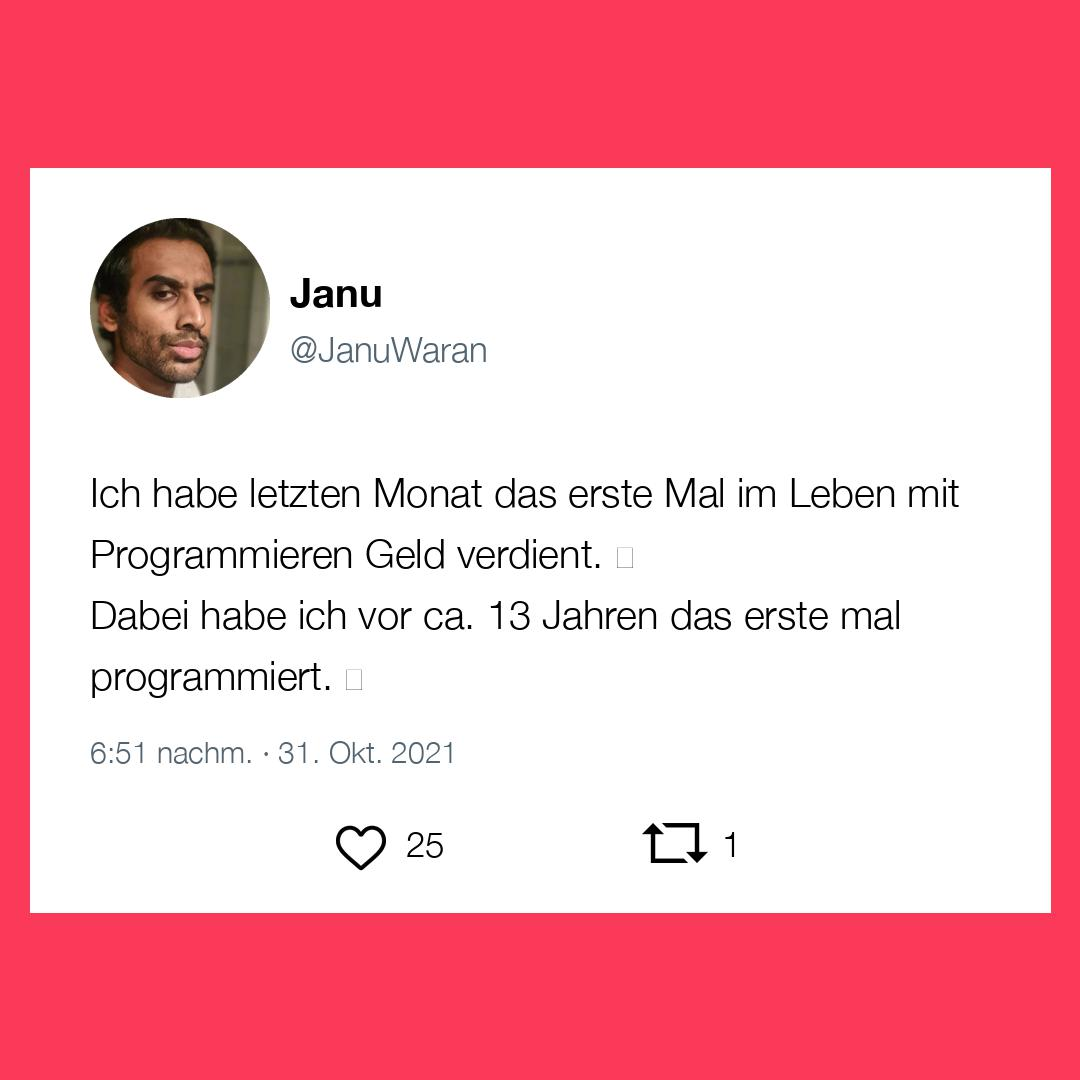
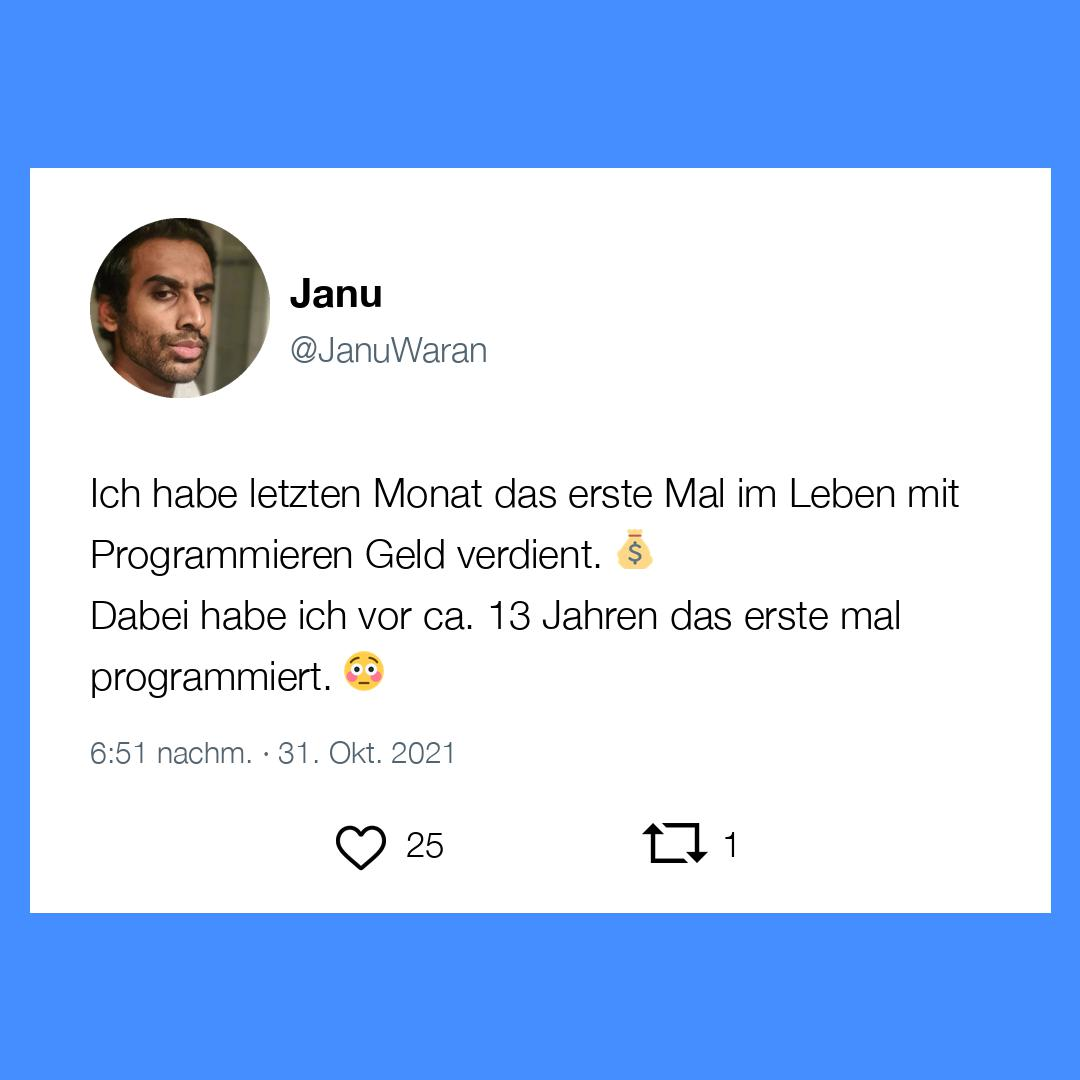
Rendering Emojis 😊

diff --git a/main.py b/main.py
@@ -5,6 +5,7 @@ import numpy as np
 import GetOldTweets3 as got
 import random
 from PIL import Image, ImageDraw, ImageOps, ImageFont
+from pilmoji import Pilmoji
 import urllib.request
 import requests
 import cv2
@@ -230,7 +231,8 @@ def tweet_to_image(name, username, showFavsRt, show_date, tweet, tweet_timestamp
       else:
         draw.rectangle(((tweet_w-60, tweet_h-300),(tweet_w+tweet_size[0]+60, tweet_h+tweet_size[1]+media_offset_h+200)), fill="white")
         rectangle_w = tweet_w+tweet_size[0]+60
-      draw.text((tweet_w, tweet_h),tweet,(0,0,0), font=tw_font)
+      with Pilmoji(img) as pilmoji:
+        pilmoji.text((tweet_w, tweet_h),tweet,(0,0,0), font=tw_font)
     else:
       tweet = tweet.replace("\n", " \n ")
       tweet_words = tweet.split(" ")
@@ -260,11 +262,13 @@ def tweet_to_image(name, username, showFavsRt, show_date, tweet, tweet_timestamp
       rectangle_w = tweet_w+900+60
       line_no = 0
       for tweet_line in tweet_lines:
-        draw.text((tweet_w, tweet_h+(tweet_size[1]+15)*line_no),tweet_line,(0,0,0), font=tw_font)
+        with Pilmoji(img) as pilmoji:
+          pilmoji.text((tweet_w, tweet_h+(tweet_size[1]+15)*line_no),tweet_line,(0,0,0), font=tw_font)
+
         line_no += 1
     img.paste(profile_image, (tweet_w, tweet_h-250), profile_image)
-    draw.text((tweet_w + 200, tweet_h-200),name,(0,0,0), font=name_font)
-    draw.text((tweet_w + 200, tweet_h-140),"@"+username,(83,100,113),font=username_font)
+    Pilmoji(img).text((tweet_w + 200, tweet_h-200),name,(0,0,0), font=name_font)
+    Pilmoji(img).text((tweet_w + 200, tweet_h-140),"@"+username,(83,100,113),font=username_font)
     fr_offset = tweet_h+0+(tweet_size[1]+15)*(1+len(tweet_lines))
     if medias == 1:
         media = Image.open("1.png", 'r')
